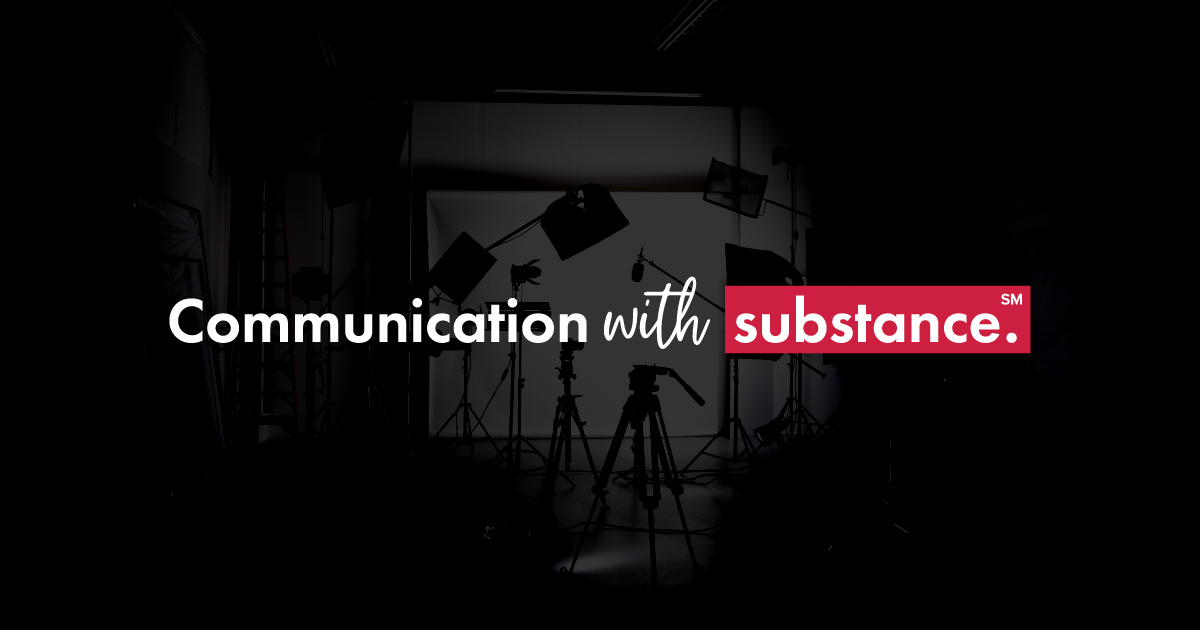
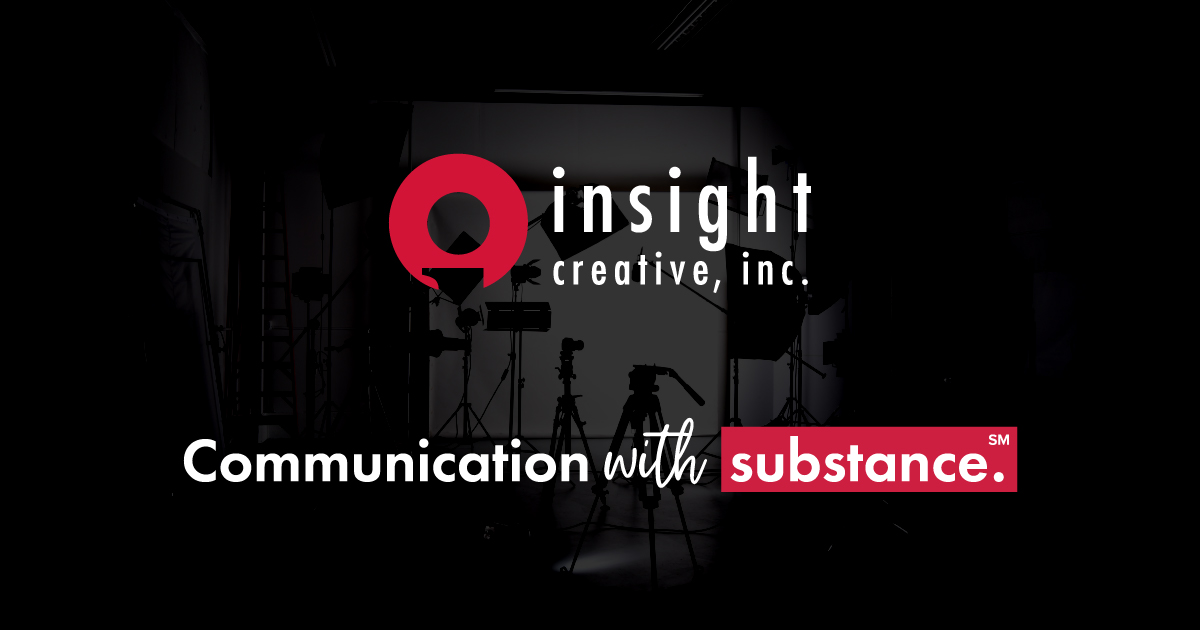
added new social preview image

Changed region(s): [[0.1233, 0.2413, 0.8633, 0.573], [0.1542, 0.6635, 0.8633, 0.7841]]

diff --git a/assets/js/main.js b/assets/js/main.js
@@ -5,6 +5,8 @@ import { ScrollTrigger } from 'gsap/ScrollTrigger'
 import Scrollbar from 'smooth-scrollbar'
 import { initSearch, toggleMobileMenu, toggleMobileDropdownMenu, dropdownMenu } from './partials';
 
+console.log('%c Crafted by Insight Creative, Inc. Coded by Justin Parsons', 'background: #1d1d1d; color: white; padding: 5px 10px;')
+
 barba.use(barbaPrefetch)
 gsap.registerPlugin(ScrollTrigger)
 
